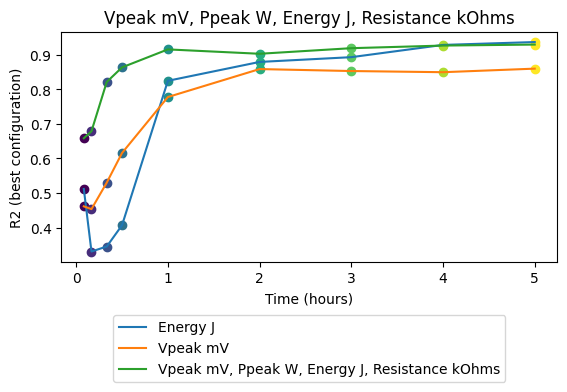
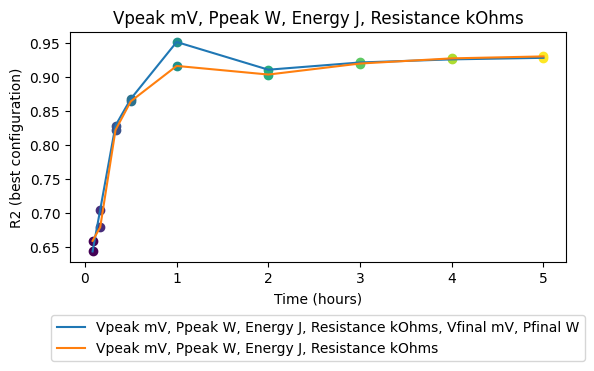
Code refactored so that function content is more well distributed and more intuitively modularised

diff --git a/model_performance_comparison.py b/model_performance_comparison.py
@@ -13,8 +13,14 @@ from sklearn.preprocessing import StandardScaler
 from sklearn.model_selection import cross_val_score
 import pickle
 
+mfc_types_regex_mappings = {
+        r"10\*10\s*AC": "10x10_AC",
+        r"20\*30\s*AC": "20x30_AC",
+        r"10\*10(?!\s*AC)": "10x10",  # match 10*10 NOT followed by AC
+        r"20\*30(?!\s*AC)": "20x30"     # match 20*30 NOT followed by AC
+    }
 
-def extract_data_subset(data, sheet_name, col_name, year, resistance):
+def filter_feature_data(data, sheet_name, col_name, year, resistance):
 
     # Load date-time index for selected mfc
     COD_date_time_index = data['COD date time index'][col_name].copy()
@@ -30,8 +36,6 @@ def extract_data_subset(data, sheet_name, col_name, year, resistance):
     mask_resistance = [r == resistance for r in resistance_column]
     feature = [f for f, c, r in zip(feature, mask_cod, mask_resistance) if c and r]
 
-    # print(len(feature))
-
     return feature
 
 
@@ -42,7 +46,8 @@ def all_subsets(lst):
         for combo in itertools.combinations(lst, r)
     ]
 
-def prepare_model_data(model_data, labels, features):
+
+def prepare_model_data(model_data, labels, features, test_size):
 
     # Create DataFrame from the dictionary to make it easier to remove NaN values
     df = pd.DataFrame({f: model_data[f] for f in labels + features})
@@ -58,25 +63,40 @@ def prepare_model_data(model_data, labels, features):
 
     X = df[features].to_numpy()
 
-    return y, X
-
-
-def evaluate_model_performance(X, y, results, configuration, 
-                               model_class, features, test_size, 
-                               min_data_points, verbose=True):
-
-    # Drop any configurations with less than minimum threshold
-    if len(y) < min_data_points:
-        if verbose==True:
-            print('Skip config (number of data points below threshold)', configuration['subset_mfc_types'],
-                configuration['subset_resistances'],
-                configuration['subset_years'])
-        return
+    # # Drop any configurations with less than minimum threshold
+    # if len(y) < min_data_points:
+    #     if verbose==True:
+    #         print('Skip config (number of data points below threshold)', configuration['subset_mfc_types'],
+    #             configuration['subset_resistances'],
+    #             configuration['subset_years'])
+    #     continue
 
     # Split into training and testing sets
     X_train, X_test, y_train, y_test = train_test_split(
         X, y, test_size=test_size, random_state=42
-    )
+    )       
+
+    return X_train, X_test, y_train, y_test 
+
+
+def evaluate_model_performance(X_train, X_test, y_train, y_test, results, configuration, 
+                               model_class, features, 
+                               #test_size, 
+                            #    min_data_points, 
+                            verbose=True):
+
+    # # Drop any configurations with less than minimum threshold
+    # if len(y) < min_data_points:
+    #     if verbose==True:
+    #         print('Skip config (number of data points below threshold)', configuration['subset_mfc_types'],
+    #             configuration['subset_resistances'],
+    #             configuration['subset_years'])
+    #     return
+
+    # # Split into training and testing sets
+    # X_train, X_test, y_train, y_test = train_test_split(
+    #     X, y, test_size=test_size, random_state=42
+    # )
 
     # Scale all features to mean 0, std 1, to retain feature importance 
     scaler = StandardScaler()
@@ -117,7 +137,7 @@ def evaluate_model_performance(X, y, results, configuration,
             "coefficients": model.coef_.copy(),
             "intercept": model.intercept_,
             "feature_scales": scaler.scale_.copy(),
-            "n_samples": len(y)
+            "n_samples": len(y_train) + len(y_pred)
             })
         
     # Sort results by R² descending
@@ -132,45 +152,16 @@ def evaluate_model_performance(X, y, results, configuration,
     results.append(scores_sorted[0])
 
 
-# MFC types
-# mfc_types_all = [
-#                         r"10\*10\s*AC",     # Carbon veil + activated carbon
-#                         r"20\*30\s*AC",
-#                         r"10\*10(?!\s*AC)", # Carbon veil
-#                         r"20\*30(?!\s*AC)"
-#                         ]
-
-mfc_types_regex_mappings = {
-        r"10\*10\s*AC": "10x10_AC",
-        r"20\*30\s*AC": "20x30_AC",
-        r"10\*10(?!\s*AC)": "10x10",  # match 10*10 NOT followed by AC
-        r"20\*30(?!\s*AC)": "20x30"     # match 20*30 NOT followed by AC
-    }
-
-# Resistance values to include in data
-# resistances_all = [0.1, 1, 3]
-
-# Years to include in data
-# years_all = [2024, 2025]
-
-# Variables to store analysis of data combinations that give best results
-# best_r2 = -float("inf")
-# best_config = None
-# results = []
-
-# # Get stored feature data
-# with open('mfc_features.pkl', 'rb') as f:
-#     mfc_features = pickle.load(f)
-
-# # Get the column / mfc names from the first dictionary in the nested dictionary of fetaures
-# first_feature = next(iter(mfc_features))
-# mfc_names = mfc_features[first_feature].keys()
 
 
-def compare_input_data_performance(features, 
-                                   mfc_types_all, 
-                                   resistances_all, 
-                                   years_all,
+
+def compare_input_data_configurations(features, 
+                                      labels,
+                                   mfc_types_all, # all mfc types to test in configurations 
+                                   resistances_all, # all resistances to test in configurations 
+                                   years_all, # all years to test in configurations 
+                                #    test_size=0.2, 
+                                   min_data_points=25,
                                    verbose=True):
     
     # Variables to store analysis of data combinations that give best results
@@ -196,13 +187,13 @@ def compare_input_data_performance(features,
                          'subset_years':subset_years}
         
 
-        # Data structure to hold training/test data
-        model_data = {k : [] for k in mfc_features}
-
-        # Flag to determine wether results of this configuration are saved
+        # Flag to determine whether results of this configuration are saved
         skip_configuration = False
 
-        # Filter MFC columns, skipping any that aren't in current subset 
+        # Data structure to hold data filtered for this configuration 
+        configuration_data = {k : [] for k in mfc_features}
+
+        # Filter MFC columns, skipping any that aren't in current configuration
         for col in mfc_names:
             if not any(re.search(p, col) for p in subset_mfc_types):
                 continue
@@ -212,10 +203,10 @@ def compare_input_data_performance(features,
 
                 for resistance in subset_resistances:
 
-                    for key in model_data:
-                        # model_data[key].extend(extract_data_subset(mfc_features, key, col, year, resistance))
-                        filtered_feature = extract_data_subset(mfc_features, key, col, year, resistance)
-                        model_data[key].extend(filtered_feature)
+                    for key in configuration_data:
+                        # model_data[key].extend(filter_feature_data(mfc_features, key, col, year, resistance))
+                        filtered_feature = filter_feature_data(mfc_features, key, col, year, resistance)
+                        configuration_data[key].extend(filtered_feature)
 
                         # If configurations contains any combinations with zero data points, don't store result
                         if len(filtered_feature) == 0:
@@ -234,23 +225,62 @@ def compare_input_data_performance(features,
             #         #   'Pfinal W'
             #         ]
 
-            y, X = prepare_model_data(model_data, 
-                                      labels=['COD'],
-                                    #   features=['Vpeak mV', 'Ppeak W', 'Energy J', 'Resistance kOhms']
-                                    #   features=['Vpeak mV', 'Ppeak W', 
-                                    #             'Energy J', 'Resistance kOhms', 
-                                    #             'Window length (hours)',
-                                    #             'Vfinal mV', 'Pfinal W'
-                                    #             ]
-                                    features=features
-                                      )        
+            # y, X = prepare_model_data(model_data, 
+            #                           labels=['COD'],
+            #                         #   features=['Vpeak mV', 'Ppeak W', 'Energy J', 'Resistance kOhms']
+            #                         #   features=['Vpeak mV', 'Ppeak W', 
+            #                         #             'Energy J', 'Resistance kOhms', 
+            #                         #             'Window length (hours)',
+            #                         #             'Vfinal mV', 'Pfinal W'
+            #                         #             ]
+            #                         features=features
+            #                           ) 
 
-            evaluate_model_performance(X, y, results, configuration, 
+            # y, X = prepare_model_data(configuration_data, 
+            #                 labels=['COD'],
+            #             #   features=['Vpeak mV', 'Ppeak W', 'Energy J', 'Resistance kOhms']
+            #             #   features=['Vpeak mV', 'Ppeak W', 
+            #             #             'Energy J', 'Resistance kOhms', 
+            #             #             'Window length (hours)',
+            #             #             'Vfinal mV', 'Pfinal W'
+            #             #             ]
+            #             features=features
+            #         ) 
+
+            # Drop any configurations with less than minimum threshold
+            if len(configuration_data[labels[0]]) < min_data_points:
+                if verbose==True:
+                    print('Skip config (number of data points below threshold)', configuration['subset_mfc_types'],
+                        configuration['subset_resistances'],
+                        configuration['subset_years'])
+                continue
+
+            X_train, X_test, y_train, y_test = prepare_model_data(
+                        configuration_data, 
+                        labels=['COD'],
+                        #   features=['Vpeak mV', 'Ppeak W', 'Energy J', 'Resistance kOhms']
+                        #   features=['Vpeak mV', 'Ppeak W', 
+                        #             'Energy J', 'Resistance kOhms', 
+                        #             'Window length (hours)',
+                        #             'Vfinal mV', 'Pfinal W'
+                        #             ]
+                        features=features,
+                        test_size=0.2
+                    ) 
+
+
+
+            # # Split into training and testing sets
+            # X_train, X_test, y_train, y_test = train_test_split(
+            #     X, y, test_size=test_size, random_state=42
+            # )       
+
+            evaluate_model_performance(X_train, X_test, y_train, y_test, results, configuration, 
                                     # model=Ridge(alpha=1.0), 
                                     model_class=Ridge, 
                                     features=features,
-                                    test_size=0.2, 
-                                    min_data_points=25,
+                                    # test_size=0.2, 
+                                    # min_data_points=25,
                                     verbose=verbose)
         else:
             if verbose==True:
@@ -290,7 +320,7 @@ def compare_input_data_performance(features,
 
 
 if __name__ == '__main__':
-    compare_input_data_performance(
+    compare_input_data_configurations(
         features=[
             'Vpeak mV', 
             'Ppeak W', 
@@ -299,6 +329,7 @@ if __name__ == '__main__':
             # 'Vfinal mV', 
             # 'Pfinal W'
             ],
+        labels=['COD'],
         mfc_types_all = [
             r"10\*10\s*AC",     # Carbon veil + activated carbon
             r"20\*30\s*AC",
@@ -306,7 +337,8 @@ if __name__ == '__main__':
             r"20\*30(?!\s*AC)"
             ],
         resistances_all = [0.1, 1, 3],
-        years_all = [2024, 2025]
+        years_all = [2024, 2025],
+        verbose=True
     )
 
 

diff --git a/main.py b/main.py
@@ -10,16 +10,16 @@ def main():
     # import_data(raw_data_file_path)
 
     feature_sets = [
-        # [
-        #             'Vpeak mV', 
-        #             'Ppeak W', 
-        #             'Energy J', 
-        #             'Resistance kOhms', 
-        #             'Vfinal mV', 
-        #             'Pfinal W'
-        #             ],
-        ['Energy J'],
-        ['Vpeak mV'],
+        [
+                    'Vpeak mV', 
+                    'Ppeak W', 
+                    'Energy J', 
+                    'Resistance kOhms', 
+                    'Vfinal mV', 
+                    'Pfinal W'
+                    ],
+        # ['Energy J'],
+        # ['Vpeak mV'],
         [
                     'Vpeak mV', 
                     'Ppeak W', 
